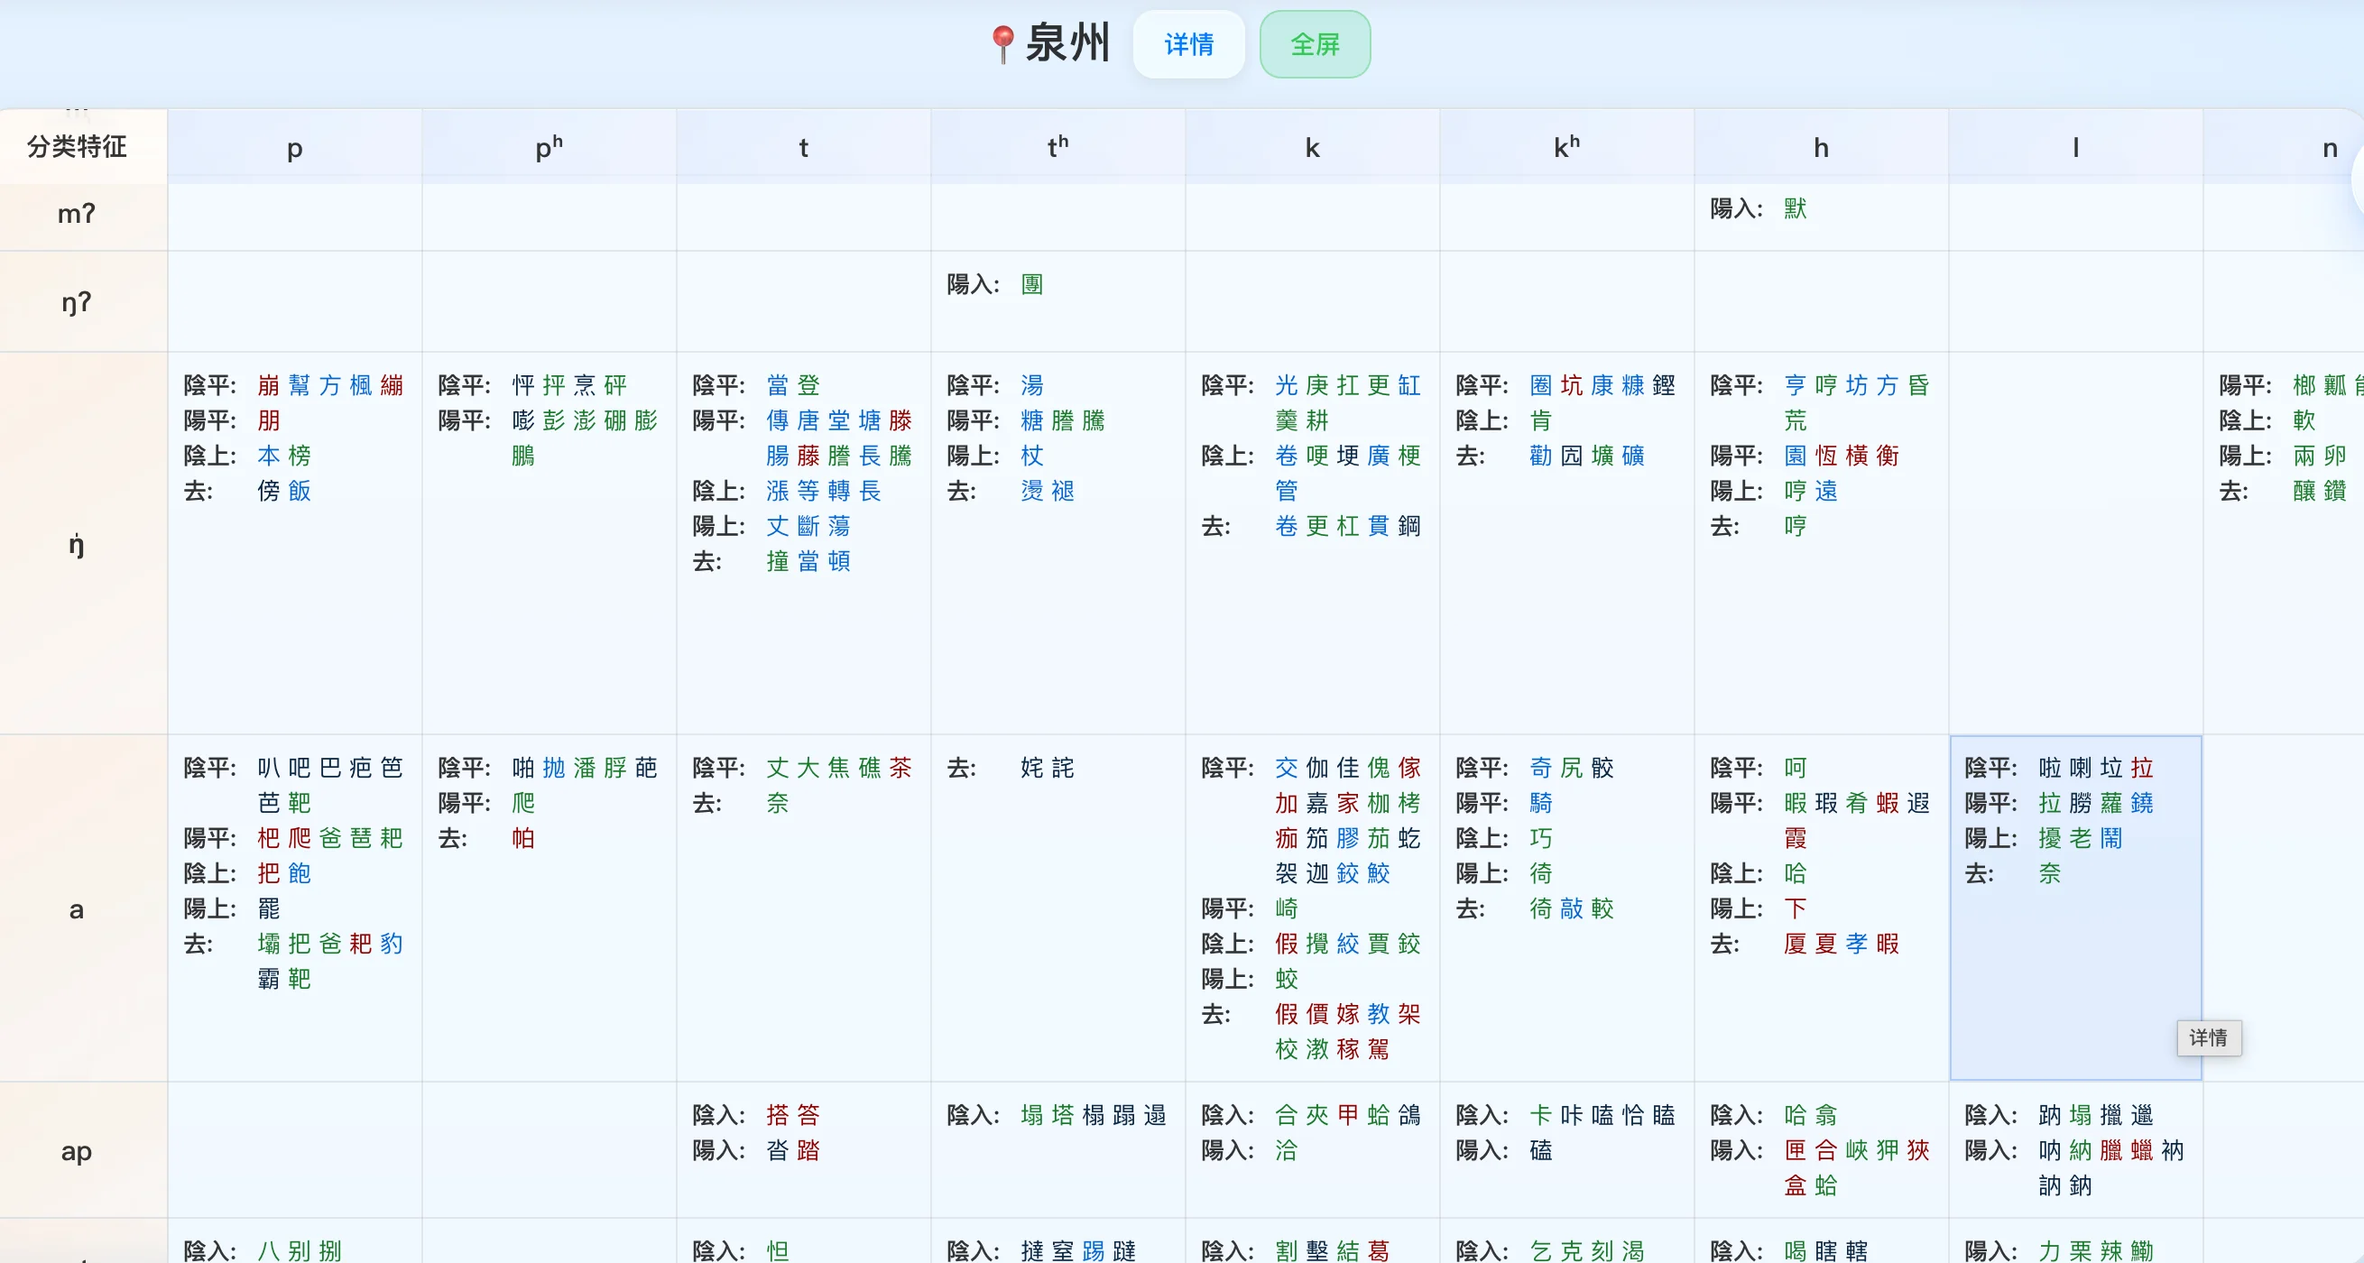
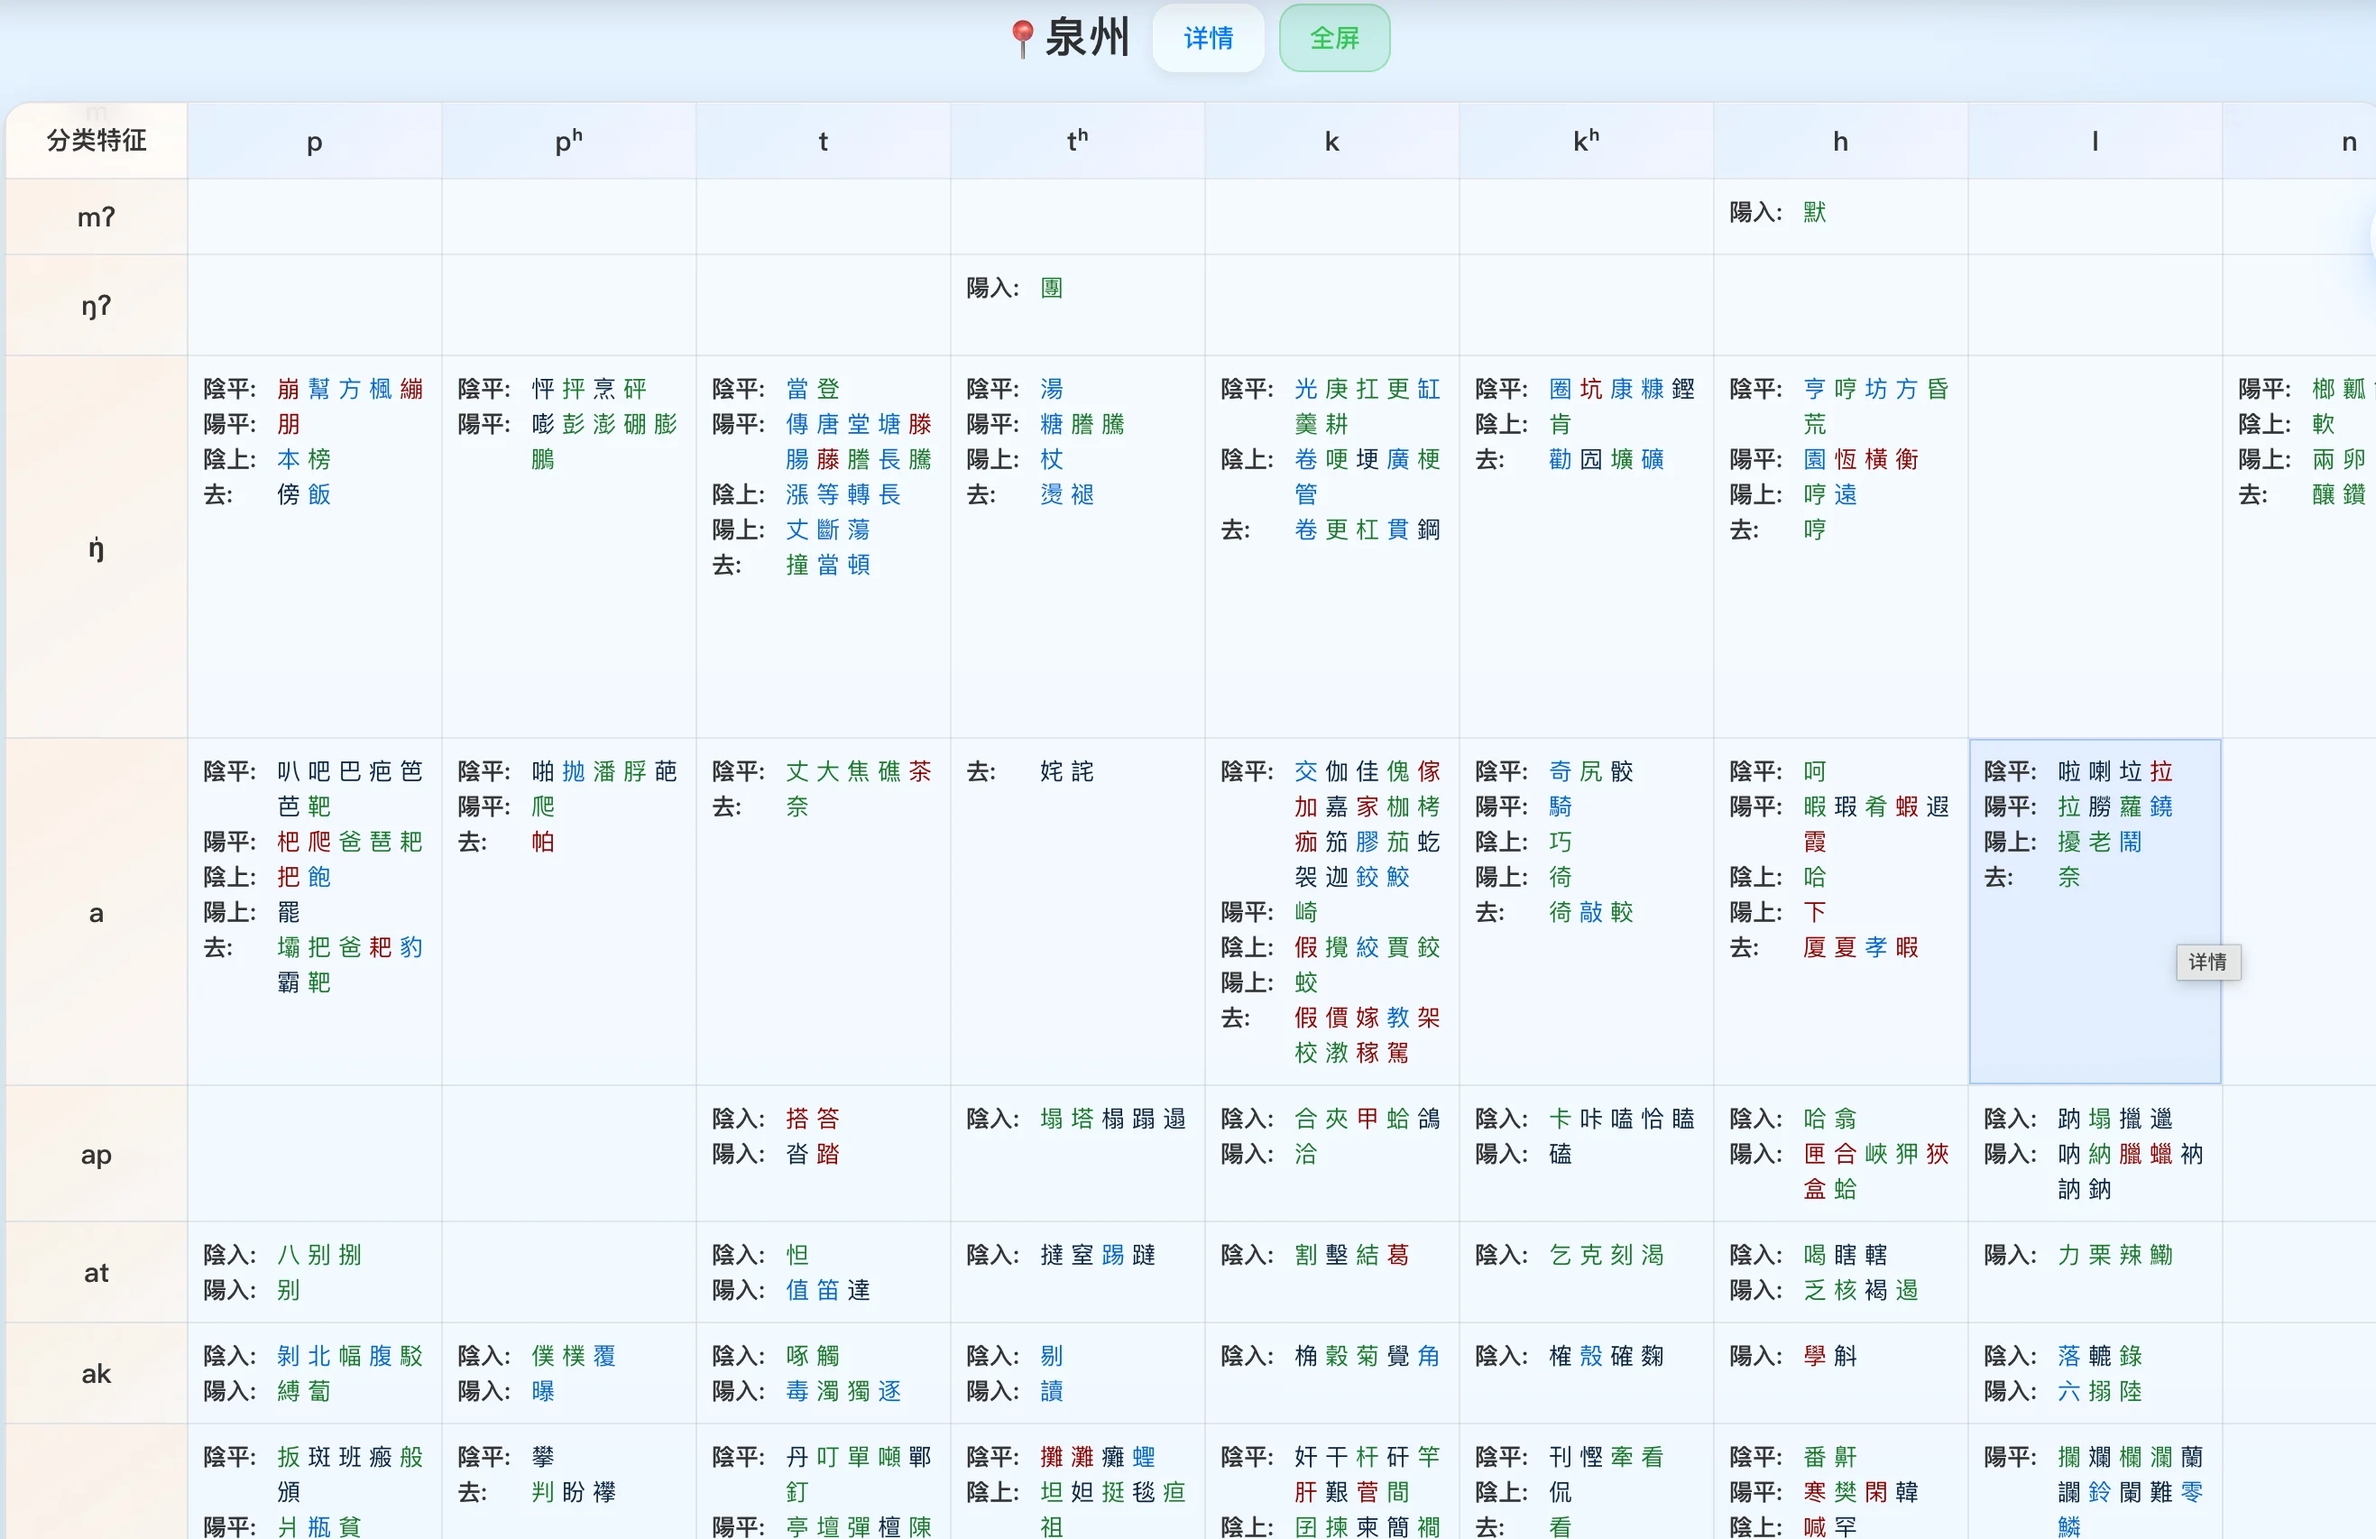
chore: 更新 compare/result/yinxi/photiccompare 四张展示截图
phocompare 重命名为 photiccompare

diff --git a/project/src/main/components/HeroShowcase.vue b/project/src/main/components/HeroShowcase.vue
@@ -84,11 +84,11 @@ const showcaseItems = [
     actionLabelKey: 'home.showcase.compare.action'
   },
   {
-    id: 'phocompare',
-    titleKey: 'home.showcase.phocompare.title',
-    image: '/showcase/phocompare.webp',
+    id: 'photiccompare',
+    titleKey: 'home.showcase.photiccompare.title',
+    image: '/showcase/photiccompare.webp',
     route: '/menu/compare/phonetic',
-    actionLabelKey: 'home.showcase.phocompare.action'
+    actionLabelKey: 'home.showcase.photiccompare.action'
   },
   {
     id: 'yinxi',
